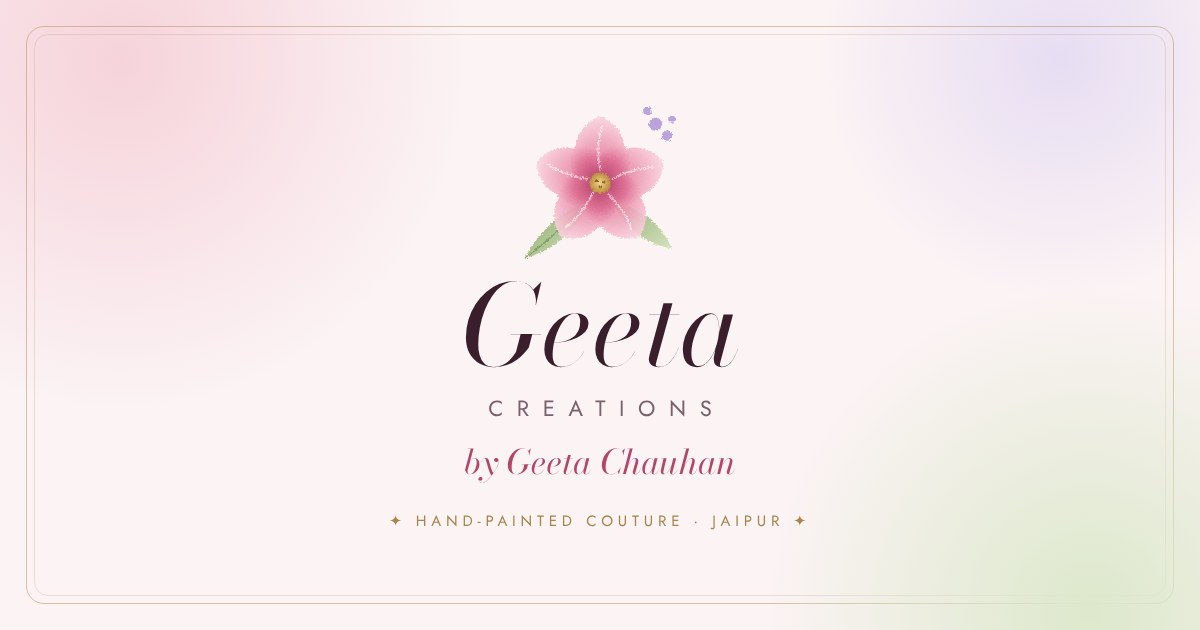
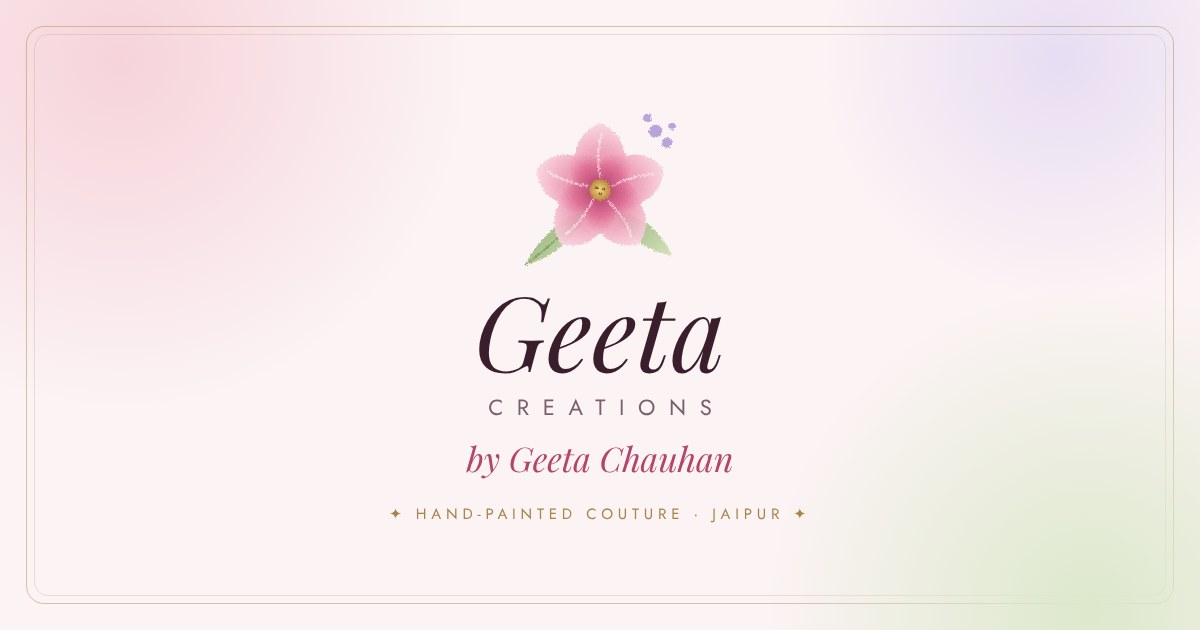
Switch headings to Playfair Display for clearer punctuation
Bodoni's hairline strokes made commas read as full stops at small sizes.
Use the sturdier Playfair Display with lining numbers, and rebuild the
share card in the same face.

Claude-Session: https://claude.ai/code/session_016R8ZsEzxqjhcEAGVeJc2cr

diff --git a/index.html b/index.html
@@ -40,7 +40,7 @@
 <meta name="claude:viewport-fit-sides" content="cover">
 <link rel="preconnect" href="https://fonts.googleapis.com">
 <link rel="preconnect" href="https://fonts.gstatic.com" crossorigin>
-<link rel="stylesheet" href="https://fonts.googleapis.com/css2?family=Bodoni+Moda:ital,opsz,wght@0,6..96,400..700;1,6..96,400..600&family=DM+Sans:ital,opsz,wght@0,9..40,300..600;1,9..40,400&family=Tiro+Devanagari+Hindi:ital@0;1&family=Mukta:wght@300;400;500;600&display=swap">
+<link rel="stylesheet" href="https://fonts.googleapis.com/css2?family=Playfair+Display:ital,wght@0,400..700;1,400..700&family=DM+Sans:ital,opsz,wght@0,9..40,300..600;1,9..40,400&family=Tiro+Devanagari+Hindi:ital@0;1&family=Mukta:wght@300;400;500;600&display=swap">
 <style>
 /* Layout: an atelier lookbook. Jharokha-arch frames, bands of petal pastels, couture serif over a clean geometric body. */
 :root{
@@ -55,7 +55,7 @@
   --gold:#A9834A;        /* zari gold, used sparingly */
   --line:#EAD9DD;
   --shadow:0 18px 40px -22px rgba(90,30,55,.35);
-  --display:"Bodoni Moda","Tiro Devanagari Hindi","Didot","Bodoni 72",Georgia,serif;
+  --display:"Playfair Display","Tiro Devanagari Hindi",Georgia,"Times New Roman",serif;
   --body:"DM Sans","Mukta","Helvetica Neue",Arial,system-ui,sans-serif;
   --deva:"Tiro Devanagari Hindi","Noto Serif Devanagari",serif;
 }
@@ -71,13 +71,13 @@
 *{box-sizing:border-box}
 html{scroll-behavior:smooth}
 html{font-size:15px}
-body{background:var(--bg);color:var(--ink);font-family:var(--body);font-size:15px;line-height:1.62;-webkit-font-smoothing:antialiased;text-rendering:optimizeLegibility;font-weight:400;overflow-x:hidden}
+body{background:var(--bg);color:var(--ink);font-family:var(--body);font-size:15px;line-height:1.62;-webkit-font-smoothing:antialiased;text-rendering:optimizeLegibility;font-variant-numeric:lining-nums;font-weight:400;overflow-x:hidden}
 body::before{content:"";position:fixed;inset:0 0 auto;height:env(safe-area-inset-top,0px);z-index:10;background:var(--bg)}
 img{display:block;max-width:100%}
 a{color:inherit}
 :focus-visible{outline:2px solid var(--rose);outline-offset:3px;border-radius:4px}
 .wrap{max-width:1180px;margin-inline:auto;padding-left:max(20px,env(safe-area-inset-left,0px));padding-right:max(20px,env(safe-area-inset-right,0px))}
-h1,h2,h3{font-family:var(--display);font-weight:400;line-height:1.08;text-wrap:balance;margin:0}
+h1,h2,h3{font-family:var(--display);font-weight:500;line-height:1.08;text-wrap:balance;margin:0}
 h2{font-size:clamp(1.75rem,3.4vw,2.55rem)}
 h2 em,h1 em{font-style:italic;color:var(--rose)}
 .eyebrow{font-size:.78rem;letter-spacing:.24em;text-transform:uppercase;color:var(--gold);font-weight:500;margin:0 0 14px}
